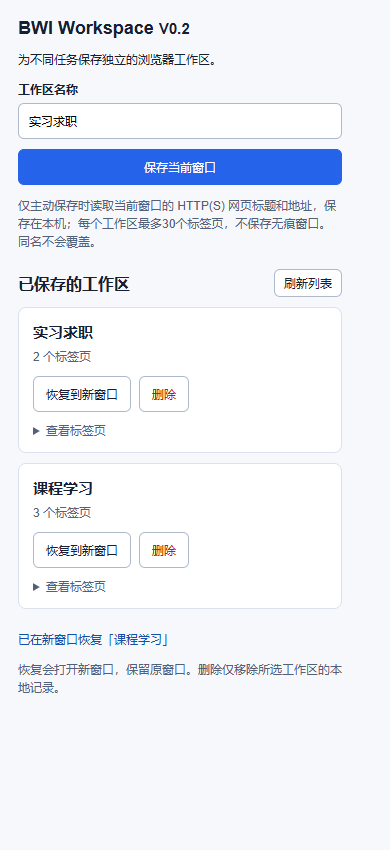
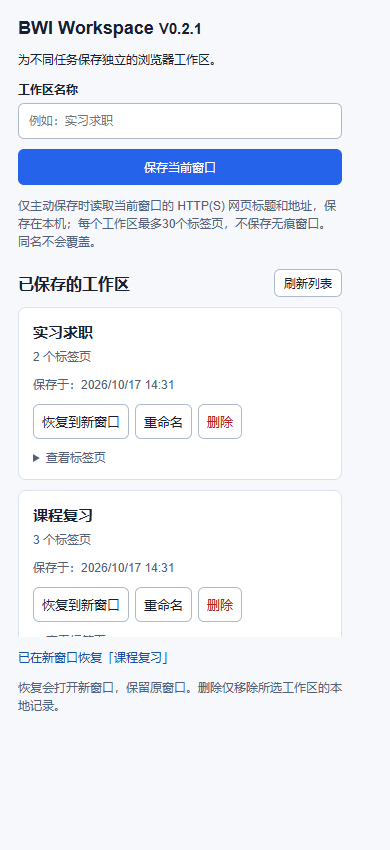
feat: add workspace rename, delete confirmation and saved times

diff --git a/extension/popup.js b/extension/popup.js
@@ -81,7 +81,9 @@ async function readWorkspaces() {
 
 function setBusy(value) {
   busy = value;
-  nameInput.disabled = value;
+  for (const input of document.querySelectorAll("input")) {
+    input.disabled = value;
+  }
   for (const button of document.querySelectorAll("button")) {
     button.disabled = value;
   }
@@ -98,6 +100,15 @@ async function runAction(label, action) {
   } finally {
     setBusy(false);
   }
+}
+
+function formatSavedAt(value) {
+  const date = typeof value === "string" && value ? new Date(value) : null;
+  if (!date || Number.isNaN(date.getTime())) return "时间未知";
+  return date.toLocaleString("zh-CN", {
+    year: "numeric", month: "2-digit", day: "2-digit",
+    hour: "2-digit", minute: "2-digit", hour12: false
+  });
 }
 
 function renderWorkspaces(workspaces) {
@@ -117,18 +128,82 @@ function renderWorkspaces(workspaces) {
     if (validCount !== workspace.tabs.length) {
       info.textContent += `（恢复时将跳过 ${workspace.tabs.length - validCount} 个无效地址）`;
     }
+    const savedTime = document.createElement("p");
+    savedTime.className = "saved-time";
+    savedTime.textContent = `保存于：${formatSavedAt(workspace.savedAt)}`;
     const actions = document.createElement("div");
     actions.className = "actions";
     const restore = document.createElement("button");
     restore.textContent = "恢复到新窗口";
     restore.setAttribute("aria-label", `恢复工作区：${workspace.name}`);
     restore.addEventListener("click", () => restoreWorkspace(workspace.id));
+    const rename = document.createElement("button");
+    rename.textContent = "重命名";
+    rename.setAttribute("aria-label", `重命名工作区：${workspace.name}`);
     const remove = document.createElement("button");
     remove.textContent = "删除";
     remove.className = "delete";
     remove.setAttribute("aria-label", `删除工作区：${workspace.name}`);
-    remove.addEventListener("click", () => deleteWorkspace(workspace.id));
-    actions.append(restore, remove);
+    actions.append(restore, rename, remove);
+
+    // 在弹窗内编辑和确认，避免浏览器对话框影响扩展弹窗的焦点。
+    const editForm = document.createElement("form");
+    editForm.className = "edit-form";
+    editForm.hidden = true;
+    const editInput = document.createElement("input");
+    editInput.type = "text";
+    editInput.maxLength = 40;
+    editInput.value = workspace.name;
+    editInput.setAttribute("aria-label", `新名称：${workspace.name}`);
+    const submitName = document.createElement("button");
+    submitName.type = "submit";
+    submitName.textContent = "保存名称";
+    const cancelName = document.createElement("button");
+    cancelName.type = "button";
+    cancelName.textContent = "取消重命名";
+    cancelName.addEventListener("click", () => {
+      editForm.hidden = true;
+      rename.focus();
+    });
+    editForm.addEventListener("submit", event => {
+      event.preventDefault();
+      renameWorkspace(workspace.id, editInput.value).then(() => {
+        if (editInput.isConnected) editInput.focus();
+      });
+    });
+    editForm.append(editInput, submitName, cancelName);
+
+    const confirmation = document.createElement("div");
+    confirmation.className = "confirmation";
+    confirmation.hidden = true;
+    confirmation.setAttribute("role", "group");
+    confirmation.setAttribute("aria-label", `删除确认：${workspace.name}`);
+    const question = document.createElement("p");
+    question.textContent = `确定删除「${workspace.name}」？此操作无法撤销。`;
+    const confirmDelete = document.createElement("button");
+    confirmDelete.textContent = "确认删除";
+    confirmDelete.className = "delete";
+    confirmDelete.setAttribute("aria-label", `确认删除工作区：${workspace.name}`);
+    confirmDelete.addEventListener("click", () => deleteWorkspace(workspace.id, workspace.name));
+    const cancelDelete = document.createElement("button");
+    cancelDelete.textContent = "取消删除";
+    cancelDelete.addEventListener("click", () => {
+      confirmation.hidden = true;
+      remove.focus();
+    });
+    confirmation.append(question, confirmDelete, cancelDelete);
+    rename.addEventListener("click", () => {
+      confirmation.hidden = true;
+      editInput.value = workspace.name;
+      editForm.hidden = false;
+      editInput.focus();
+      editInput.select();
+    });
+    remove.addEventListener("click", () => {
+      editForm.hidden = true;
+      confirmation.hidden = false;
+      cancelDelete.focus();
+    });
 
     const details = document.createElement("details");
     const summary = document.createElement("summary");
@@ -140,7 +215,7 @@ function renderWorkspaces(workspaces) {
       list.append(item);
     }
     details.append(summary, list);
-    card.append(heading, info, actions, details);
+    card.append(heading, info, savedTime, actions, editForm, confirmation, details);
     preview.append(card);
   }
 }
@@ -201,13 +276,45 @@ async function restoreWorkspace(id) {
   });
 }
 
-async function deleteWorkspace(id) {
+async function renameWorkspace(id, value) {
+  return runAction("重命名", async () => {
+    const name = value.trim();
+    if (!name || name.length > 40) {
+      throw new Error(!name ? "请输入工作区名称" : "名称最多40个字符");
+    }
+    const workspaces = await readWorkspaces();
+    const workspace = workspaces.find(item => item.id === id);
+    if (!workspace) {
+      renderWorkspaces(workspaces);
+      throw new Error("此工作区已被删除");
+    }
+    if (workspaces.some(item => item.id !== id && item.name === name)) {
+      throw new Error("已有同名工作区，请换一个名称");
+    }
+    if (workspace.name === name) {
+      showMessage("名称未改变");
+      renderWorkspaces(workspaces);
+      return;
+    }
+    // 只改名称，ID、网页顺序和原始保存时间保持不变。
+    const renamed = workspaces.map(item => item.id === id ? { ...item, name } : item);
+    await chrome.storage.local.set({ [KEY]: renamed });
+    renderWorkspaces(renamed);
+    showMessage(`已重命名为「${name}」`);
+  });
+}
+
+async function deleteWorkspace(id, confirmedName) {
   return runAction("删除", async () => {
     const workspaces = await readWorkspaces();
     const workspace = workspaces.find(item => item.id === id);
     if (!workspace) {
       renderWorkspaces(workspaces);
       throw new Error("此工作区已被删除");
+    }
+    if (workspace.name !== confirmedName) {
+      renderWorkspaces(workspaces);
+      throw new Error("工作区名称已变化，请重新确认删除");
     }
     const remaining = workspaces.filter(item => item.id !== id);
     await chrome.storage.local.set({ [KEY]: remaining });

diff --git a/extension/popup.html b/extension/popup.html
@@ -20,7 +20,13 @@
     #retry { padding: 5px 9px; }
     .workspace { padding: 14px; margin-bottom: 10px; background: white; border: 1px solid #dce2ed; border-radius: 8px; }
     .workspace p { margin: 6px 0 10px; color: #526079; }
-    .actions { display: flex; gap: 8px; margin-bottom: 10px; }
+    .actions { display: flex; flex-wrap: wrap; gap: 6px; margin-bottom: 10px; }
+    .actions button { padding: 8px; font-size: 13px; }
+    .saved-time { font-size: 12px; }
+    .edit-form, .confirmation { padding: 10px; margin-bottom: 10px; background: #f6f8fc; border-radius: 6px; }
+    .edit-form input { margin-bottom: 8px; }
+    .edit-form button, .confirmation button { padding: 7px; margin: 0 4px 4px 0; font-size: 13px; }
+    [hidden] { display: none; }
     .delete { color: #b42318; }
     #preview { max-height: 330px; overflow-y: auto; overflow-wrap: anywhere; }
     summary { cursor: pointer; color: #526079; }
@@ -31,7 +37,7 @@
   </style>
 </head>
 <body>
-  <h2>BWI Workspace <small>V0.2</small></h2>
+  <h2>BWI Workspace <small>V0.2.1</small></h2>
   <p>为不同任务保存独立的浏览器工作区。</p>
   <label for="workspaceName">工作区名称</label>
   <input id="workspaceName" type="text" placeholder="例如：实习求职" maxlength="40" autocomplete="off" aria-describedby="saveHint">

diff --git a/docs/learning-notes.md b/docs/learning-notes.md
@@ -1,12 +1,12 @@
-# Browser Workflow Intelligence — V0.2
+# Browser Workflow Intelligence — V0.2.1
 
-本地浏览器工作区管理扩展。V0.2 在 V0.1 的基础上增加多个命名工作区。
+本地浏览器工作区管理扩展。V0.2 增加多个命名工作区；V0.2.1 增加重命名、删除确认和保存时间。
 
 ## 在现有 Chrome 中启用
 
 1. 打开 `chrome://extensions`。
 2. 找到已有的 **BWI Workspace Manager**，点击重新加载按钮。
-3. 确认版本为 **0.2.0**，再次打开扩展，标题显示 **V0.2**。
+3. 确认版本为 **0.2.1**，再次打开扩展，标题显示 **V0.2.1**。
 4. 继续使用原来加载的 `BWI/extension` 目录，无需移除扩展或重新安装。
 
 ## 功能与规则
@@ -27,7 +27,7 @@
 
 ## 代码导读
 
-`manifest.json`：版本改为 `0.2.0`；权限仍为 `tabs` 和 `storage`。
+`manifest.json`：版本改为 `0.2.1`；权限仍为 `tabs` 和 `storage`。
 
 `popup.html`：名称输入框、保存按钮、工作区卡片列表、状态提示，以及列表刷新按钮。
 
@@ -56,9 +56,11 @@
 1. `saveWorkspace()`：校验名称 → 读取列表 → 检查重名 → 读取当前窗口 → 过滤和排序 → `push()` 新对象 → 写回数组。
 2. `renderWorkspaces()`：遍历数组，为每项生成卡片；使用 `textContent` 展示名称和标题。
 3. `restoreWorkspace(id)`：用 `find()` 定位对象，将有效 URL 数组传给新窗口。
-4. `deleteWorkspace(id)`：用 `filter()` 生成不包含该对象的新数组，再写回。
-5. `readWorkspaces()`：读取、检查格式并迁移旧数据。
-6. `runAction()`：处理错误和操作期间的按钮状态；通过 Web Locks 将多个弹窗的读取、修改和写入依次执行，避免并发覆盖。
+4. `renameWorkspace(id, value)`：校验新名称，用 `map()` 生成数组，通过 `{ ...item, name }` 只替换名称；不重新查询网页、不改原保存时间。
+5. `deleteWorkspace(id, confirmedName)`：确认后重新读取记录，核对名称未变化，用 `filter()` 生成不包含该对象的新数组，再写回。
+6. `readWorkspaces()`：读取、检查格式并迁移旧数据。
+7. `runAction()`：处理错误和操作期间的按钮状态；通过 Web Locks 将多个弹窗的读取、修改和写入依次执行，避免并发覆盖。
+8. `formatSavedAt()`：按本地时间格式化原保存时间；无有效值时显示“时间未知”。
 
 接口参考：[Chrome Storage](https://developer.chrome.com/docs/extensions/reference/api/storage)、[Chrome Tabs](https://developer.chrome.com/docs/extensions/reference/api/tabs)、[Chrome Windows](https://developer.chrome.com/docs/extensions/reference/api/windows)、[Web Locks](https://developer.mozilla.org/en-US/docs/Web/API/Web_Locks_API)。
 
@@ -72,6 +74,8 @@
 6. 若此前有 V0.1 保存记录，首次打开 V0.2 时应在列表看到它，重新打开不应重复出现。
 
 ## 已完成验证
+
+V0.2.1：34项界面及异常场景检查、13项真实扩展集成检查通过。新增覆盖重命名的数据保留、重名和空白校验、取消及失败重试、并发重名、保存时间兼容、删除取消和确认期间名称变化。重新加载后可依次测试：重命名 → 重开弹窗核对 → 点击删除后取消 → 再次删除并确认。
 
 2026-10-17：25项界面与错误场景检查通过，其中 Chrome 存储、标签页及窗口接口采用模拟方式测试，DOM 和 Web Locks 使用真实浏览器。
 

diff --git a/CHANGELOG.md b/CHANGELOG.md
@@ -1,5 +1,12 @@
 # Changelog
 
+## 0.2.1
+
+- 增加工作区重命名：空名称、同名和超过40个字符会被拒绝；保留ID、标签页顺序及原始保存时间。
+- 删除前展示确认区域，支持取消；确认期间若名称被其他页面修改，需重新确认。
+- 按本地时间显示保存时间，缺失或无效的旧记录显示“时间未知”。
+- 增加重命名失败重试、并发重名、删除取消与时间兼容检查；34项界面检查和13项真实扩展检查通过。
+
 ## 0.2.0
 
 - 保存多个命名工作区，列表展示并按项恢复、删除。
